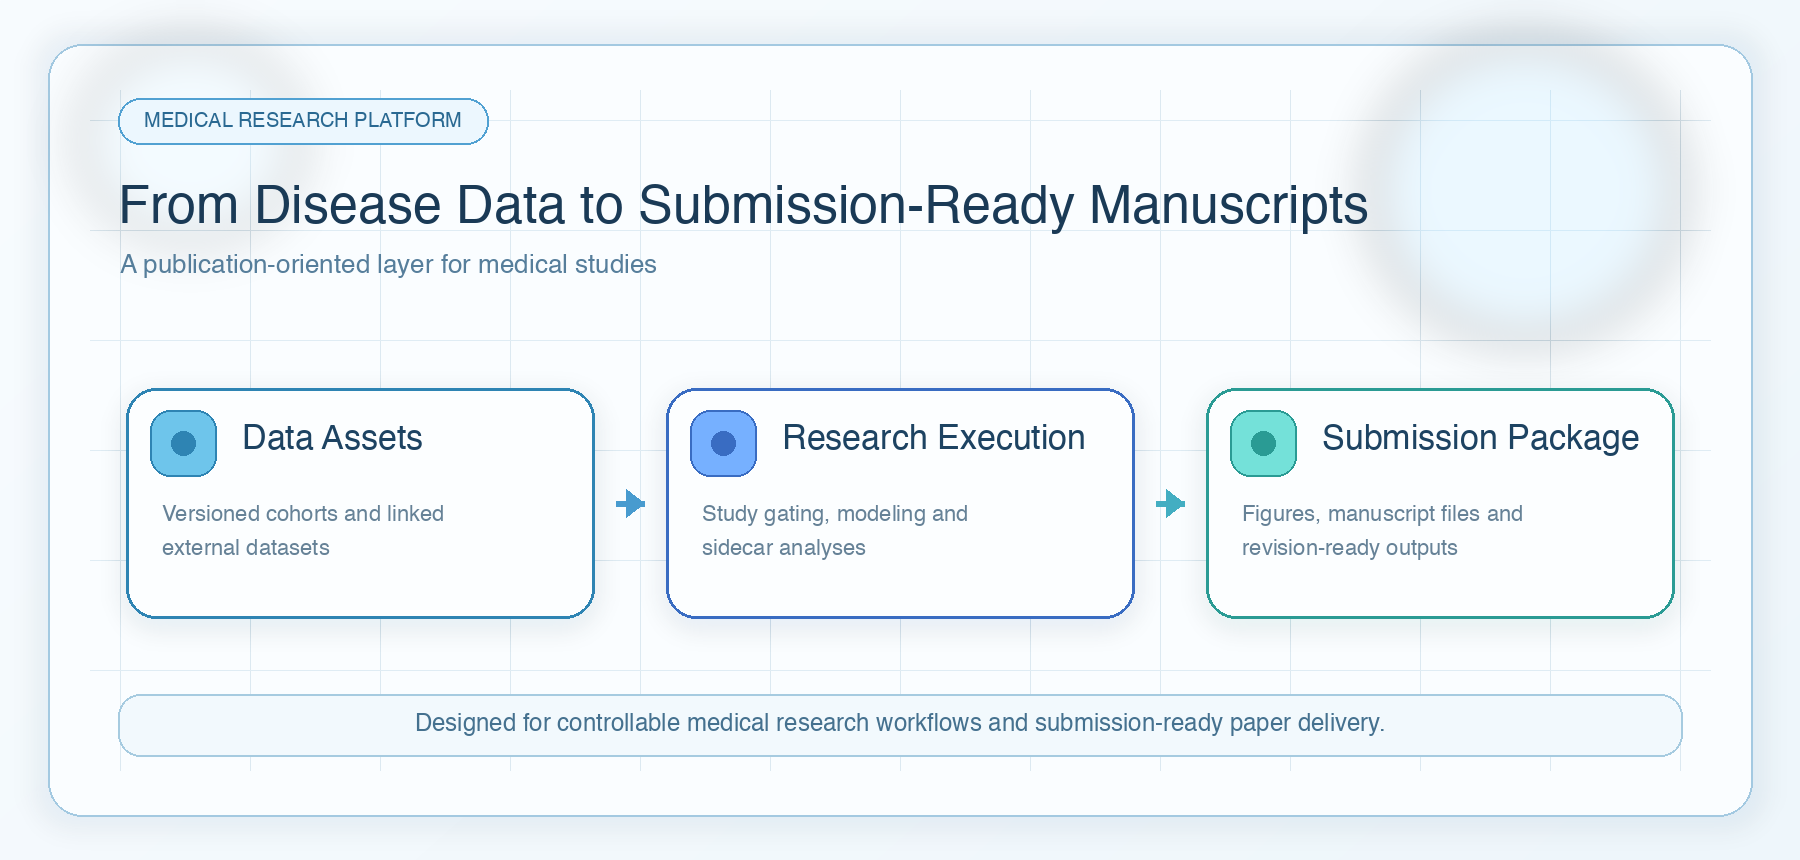
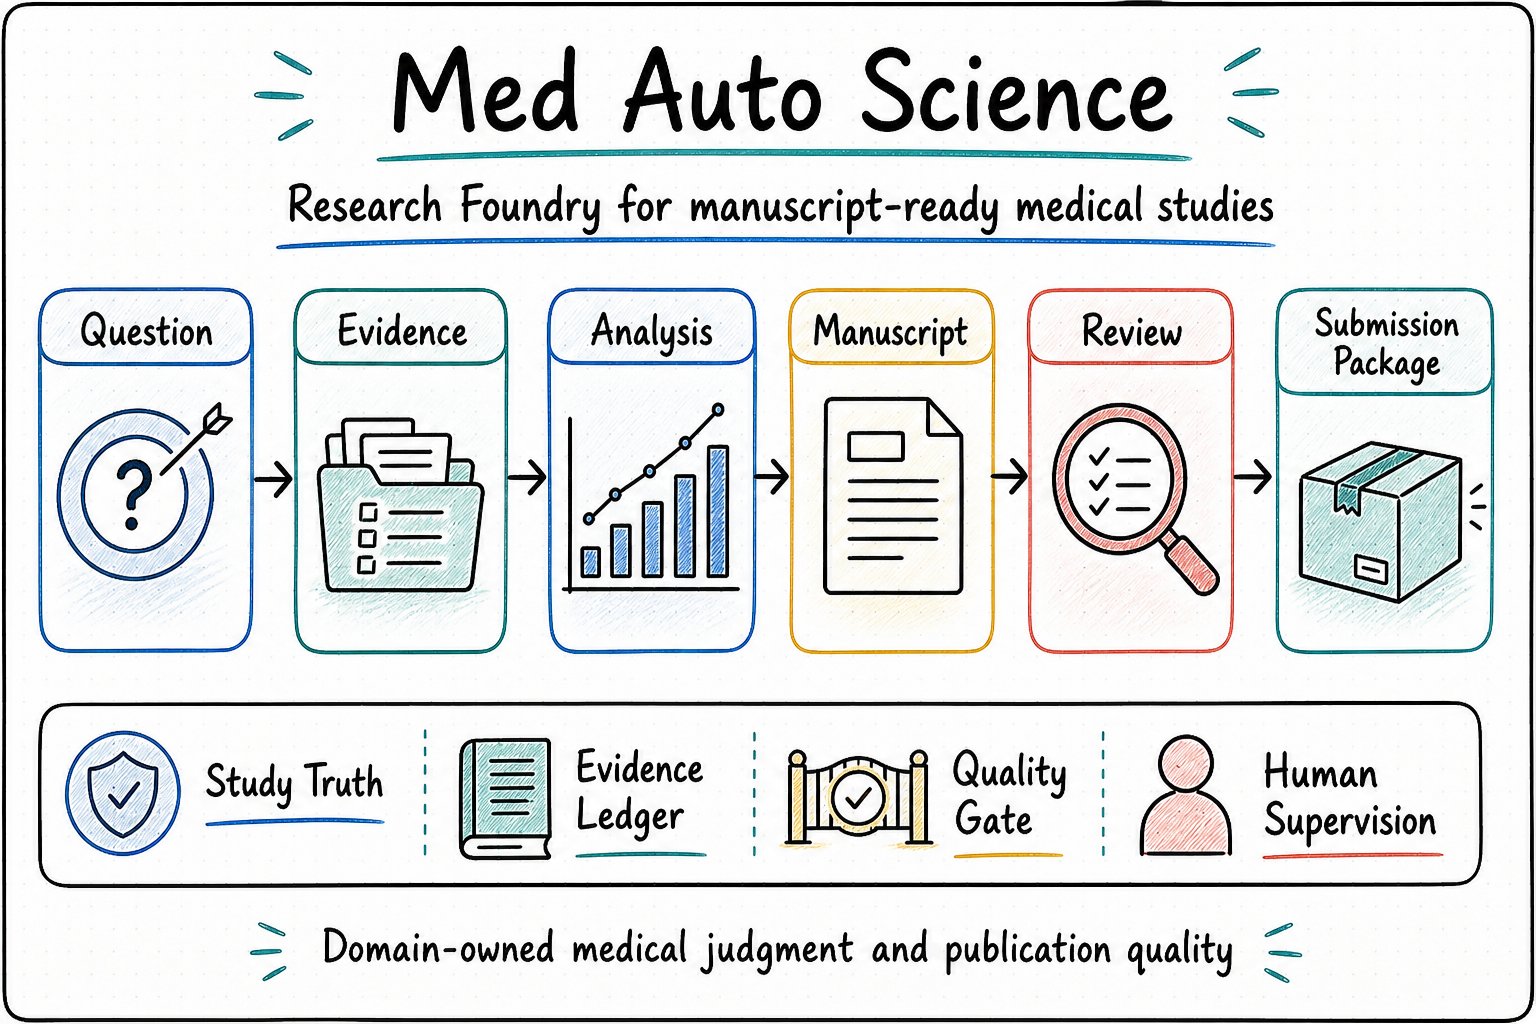
Refresh OPL production closure status

Changed region(s): [[0.0, 0.0, 1.0, 1.0]]

diff --git a/README.md b/README.md
@@ -1,5 +1,5 @@
 <p align="center">
-  <img src="assets/branding/medautoscience-logo.svg" alt="Med Auto Science logo" width="132" />
+  <img src="assets/branding/medautoscience-logo.png" alt="Med Auto Science logo" width="132" />
 </p>
 
 <p align="center">

diff --git a/README.zh-CN.md b/README.zh-CN.md
@@ -1,5 +1,5 @@
 <p align="center">
-  <img src="assets/branding/medautoscience-logo.svg" alt="Med Auto Science Logo" width="132" />
+  <img src="assets/branding/medautoscience-logo.png" alt="Med Auto Science Logo" width="132" />
 </p>
 
 <p align="center">

diff --git a/docs/status.md b/docs/status.md
@@ -148,3 +148,4 @@
 33. 2026-05-11 OPL stage-led framework 校准：OPL 当前实测能把 MAS 识别为 aligned standard domain-agent skeleton、6-stage family stage plane，并把 `mas_publication_route_memory` 解析为 MAS-owned resolved family domain-memory descriptor；OPL family domain-memory index 当前也能解析 MAG/RCA 的标准 descriptor。MAS 侧 publication route memory 已具备 workspace apply closure、stage entry refs、typed writeback proposal 和 router receipt locator；真实 memory body、migration receipt 和 writeback receipt 仍只进入 workspace/runtime artifact root。该状态说明 MAS 已具备 OPL-hosted stage attempt 的 domain adapter 条件；OPL Codex runner 已有 repo/test harness 和 `codex_cli` process-supervision path。仍未完成的是真实 Temporal server/worker residency、MAS paper-line provider-hosted read-only -> guarded apply soak、human gate/resume 操作链进入 MAS owner route 的运行证明、真实 workspace/runtime memory writeback receipt，以及旧 compatibility residue 物理清理。
 34. 2026-05-11 Publication route memory writeback 已把 typed closeout 的 `workspace_reusable` lesson 从“只写 proposal/receipt”推进到可再次检索的 workspace memory pack：`memory_write_router_receipt` 接受的 workspace reusable route lesson 会以 natural-language memory card 幂等写入 `portfolio/research_memory/publication_route_memory/memory_pack.json`，后续 `stage_knowledge_packet.publication_route_memory_refs` 可按 stage 和 route family 小集合读取。该能力仍只存在于 MAS workspace owner surface，不把 memory body、writeback acceptance、route judgment、publication quality 或 artifact authority 上收到 OPL 或 repo。
 35. 2026-05-11 MAS stage memory callable surfaces 已补齐最小 CLI owner entry：`publication-route-memory-apply-seed`、`stage-knowledge-packet`、`stage-memory-closeout-route` 和 `paper-soak-memory-proof` 分别执行 seed migration/apply receipt、stage knowledge packet materialization、typed closeout routing/router receipt、read-only paper-soak proof materialization。这些入口直接调用 MAS-owned `stage_knowledge_plane`，不经 OPL apply，不让 OPL 接收或拒绝 memory writeback，也不授权 publication quality、controller decision 或 artifact/package readiness。
+36. 2026-05-11 OPL runtime closure follow-up：OPL 已补齐 typed stage closeout ledger 的幂等 / conflict fail-closed 语义，Aion Runtime Workbench 已把 provider completion、domain ready verdict、human gate、dead letter、rejected writeback 拆成独立 operator 状态轴，并把 human gate signal 限定到当前 attempt id。这提高了 MAS 被 OPL 托管时的控制面安全性和可见性，但仍不改变 MAS owner 边界：真实 paper-line provider-hosted soak、human gate/resume 进入 MAS owner route 的执行证明、workspace/runtime memory writeback receipt 和 publication/artifact authority 仍必须在 MAS durable surfaces 中闭合。